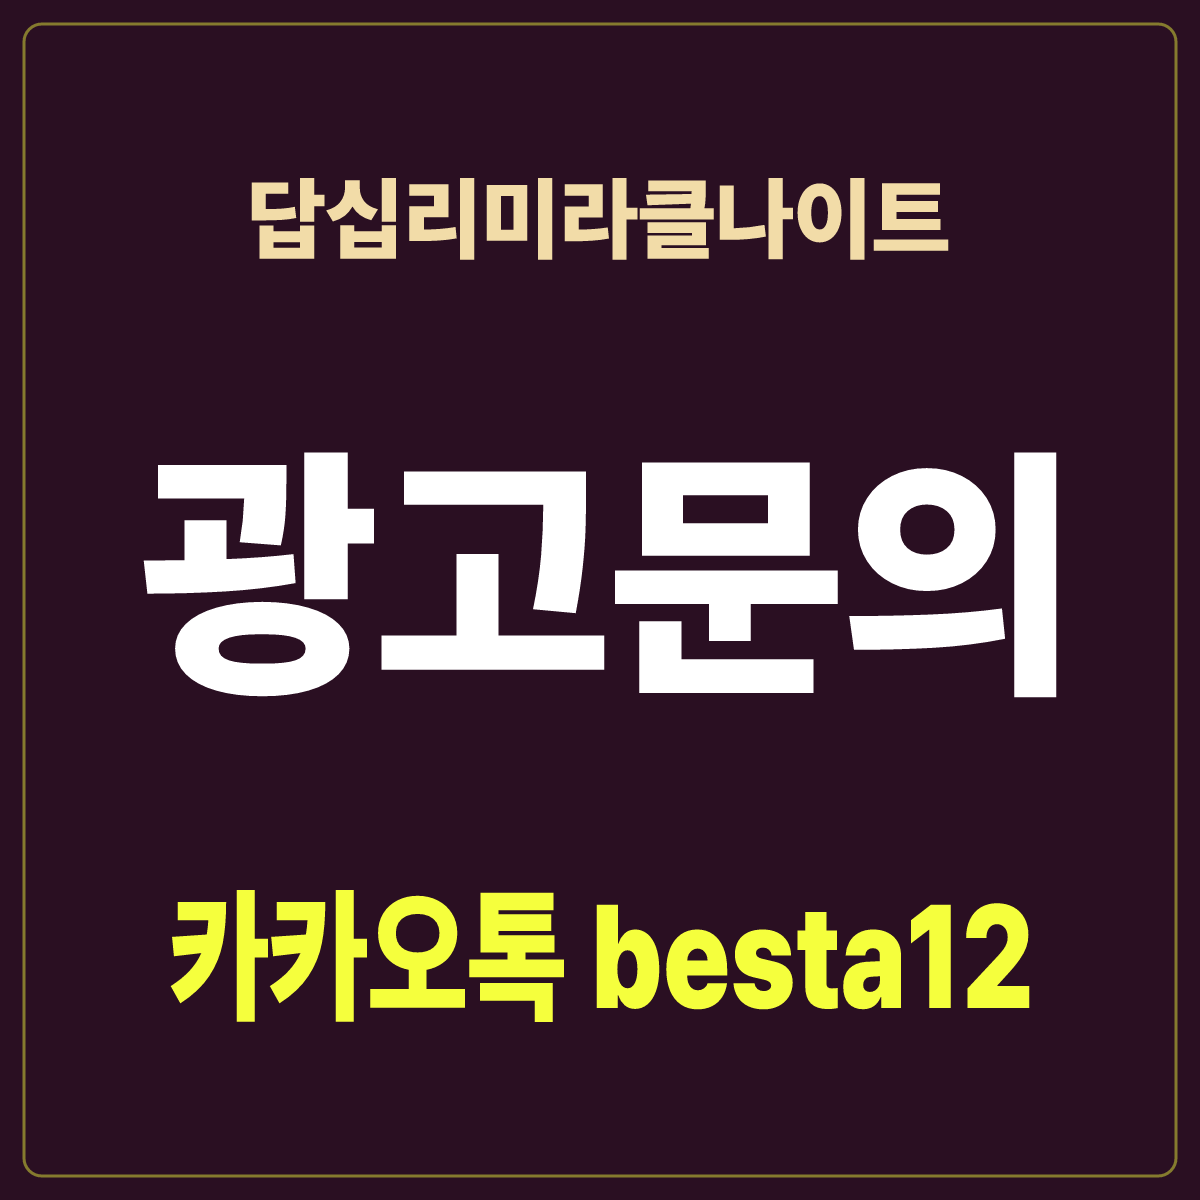
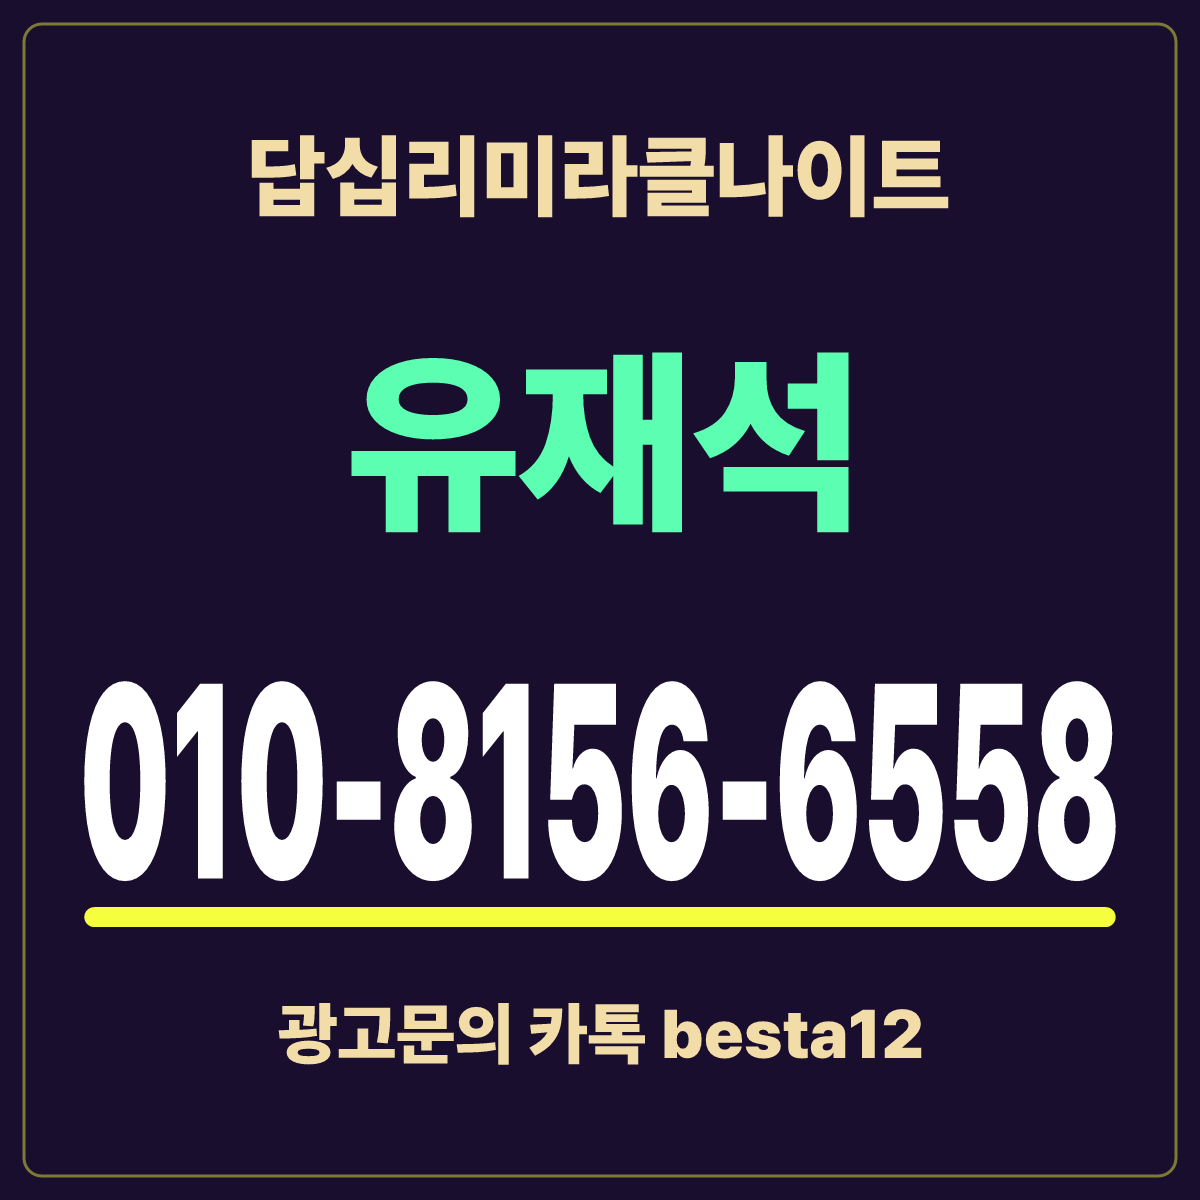
답십리미라클나이트 광고주 등록: 유재석 010-8156-6558 (썸네일·고정전화바·JSON-LD)

Changed region(s): [[0.0617, 0.2775, 0.9558, 0.8942], [0.185, 0.0925, 0.8017, 0.2158]]

diff --git a/public/start/dapsimni-miracle/index.html b/public/start/dapsimni-miracle/index.html
@@ -33,7 +33,7 @@
 <meta name="twitter:description" content="답십리미라클나이트처럼 공개된 정보가 적은 업소를 처음 찾아갈 때 무엇을 먼저 확인해야 하는지 정리했습니다. 확인되지 않은 항목은 확인 불가로 그대로 적었습니다.">
 <meta name="twitter:image" content="https://onee-w8t.pages.dev/og/start-dapsimni-miracle-og.png">
 <link rel="stylesheet" href="/start/start.css">
-<script type="application/ld+json">{"@context":"https://schema.org","@type":"NightClub","name":"답십리미라클나이트","url":"https://onee-w8t.pages.dev/start/dapsimni-miracle/","image":"https://onee-w8t.pages.dev/og/start-dapsimni-miracle-og.png","description":"답십리미라클나이트는 서울 동대문구 답십리 일대로 알려져 있으나, 상세 주소와 층은 확인 불가입니다.","address":{"@type":"PostalAddress","addressLocality":"동대문구","addressRegion":"서울특별시","addressCountry":"KR"}}</script>
+<script type="application/ld+json">{"@context":"https://schema.org","@type":"NightClub","name":"답십리미라클나이트","url":"https://onee-w8t.pages.dev/start/dapsimni-miracle/","image":"https://onee-w8t.pages.dev/og/start-dapsimni-miracle-og.png","description":"답십리미라클나이트는 서울 동대문구 답십리 일대로 알려져 있으나, 상세 주소와 층은 확인 불가입니다.","address":{"@type":"PostalAddress","addressLocality":"동대문구","addressRegion":"서울특별시","addressCountry":"KR"},"telephone":"+82-10-8156-6558"}</script>
 <script type="application/ld+json">{"@context":"https://schema.org","@type":"FAQPage","mainEntity":[{"@type":"Question","name":"답십리미라클나이트 주소가 어떻게 되나요?","acceptedAnswer":{"@type":"Answer","text":"서울 동대문구 답십리 일대로 알려져 있으나 상세 주소는 확인 불가입니다. 지도 앱 확인을 권합니다."}},{"@type":"Question","name":"정보가 없는 업소도 가도 되나요?","acceptedAnswer":{"@type":"Answer","text":"가도 됩니다. 다만 혼자보다 일행과 함께 가고 첫날은 짧게 보는 편이 안전합니다."}},{"@type":"Question","name":"가서 생각과 다르면 어떻게 하나요?","acceptedAnswer":{"@type":"Answer","text":"계산을 마치고 나오면 됩니다. 나이트클럽은 끝까지 머물러야 하는 공간이 아닙니다."}}]}</script>
 <script type="application/ld+json">{"@context":"https://schema.org","@type":"BreadcrumbList","itemListElement":[{"@type":"ListItem","position":1,"name":"홈","item":"https://onee-w8t.pages.dev/"},{"@type":"ListItem","position":2,"name":"나이트 입문 노트","item":"https://onee-w8t.pages.dev/start/"},{"@type":"ListItem","position":3,"name":"답십리미라클나이트","item":"https://onee-w8t.pages.dev/start/dapsimni-miracle/"}]}</script>
 </head>
@@ -154,8 +154,8 @@
 <p class="footer-copy">© 2026 · 처음 가는 사람 입문 노트. 공개 자료를 정리한 안내 페이지이며, 확인되지 않은 항목은 "확인 불가"로 표기했습니다.</p>
 </div>
 </footer>
-<div class="callbar" role="complementary" aria-label="광고 문의">
-  <span>💬 광고문의 카카오톡 <b>besta12</b></span>
+<div class="callbar" role="complementary" aria-label="전화 연결">
+  <a href="tel:01081566558">📞 유재석 010-8156-6558</a>
 </div>
 </body>
 </html>

diff --git a/scripts/og-spec.js b/scripts/og-spec.js
@@ -5,20 +5,21 @@ const start = require('./start-data.js');
 const SITE = 'https://onee-w8t.pages.dev';
 const KAKAO = 'besta12';
 
-/* ★광고주 정답표 — 총 4명 */
+/* ★광고주 정답표 */
 const ADVERTISERS = {
   '울산챔피언나이트': { nick: '춘자', tel: '010-5653-0069' },
   '창원룰루랄라나이트': { nick: '로또', tel: '010-7528-4936' },
   '불광동호박나이트': { nick: '손흥민', tel: '010-2221-1937' },
   '청담나이트': { nick: '펩시맨', tel: '010-5655-4866' },
   '대전세븐나이트': { nick: '영탁', tel: '010-7770-0869' },
+  '답십리미라클나이트': { nick: '유재석', tel: '010-8156-6558' },
 };
 
 /* 어두운 단색 배경 팔레트 */
 const BG = ['#0B1B3A','#1A0E2E','#2A1206','#08221F','#231018','#0E1E14','#1C1430','#2B1A06','#101A2B','#241016','#062028','#2A0F22'];
 const hash = (s) => [...s].reduce((a, c) => (a * 31 + c.charCodeAt(0)) >>> 0, 7);
 const bgOf = (slug) => BG[hash(slug) % BG.length];
-const AD_BG = { '대전세븐나이트': '#5C3000', '울산챔피언나이트': '#0B1B3A', '창원룰루랄라나이트': '#2A0F22', '불광동호박나이트': '#2B1A06', '청담나이트': '#062028' };
+const AD_BG = { '대전세븐나이트': '#5C3000', '울산챔피언나이트': '#0B1B3A', '창원룰루랄라나이트': '#2A0F22', '불광동호박나이트': '#2B1A06', '청담나이트': '#062028', '답십리미라클나이트': '#1A0E2E' };
 
 /* cat: A=광고주 / B=비광고주 / C=가게 전용 사이트 자기 가게 페이지 / HUB=허브·목록(=B 규칙, 중립 문구) */
 const SPECS = [];

diff --git a/scripts/start-pages-02.js b/scripts/start-pages-02.js
@@ -393,7 +393,7 @@ module.exports = [
   region: '서울 동대문구 답십리 일대', locality: '동대문구', addrRegion: '서울특별시',
   addr: '확인 불가',
   station: '5호선 답십리역 방면 (확인 불가)', age: '확인 불가', floor: '확인 불가',
-  group: 'B',
+  group: 'A', manager: '유재석', tel: '010-8156-6558', telHref: '01081566558',
   title: '답십리미라클나이트, 정보가 적을 때 확인할 것',
   desc: '답십리미라클나이트처럼 공개된 정보가 적은 업소를 처음 찾아갈 때 무엇을 먼저 확인해야 하는지 정리했습니다. 확인되지 않은 항목은 확인 불가로 그대로 적었습니다.',
   ogAlt: '답십리미라클나이트 입문 노트 · 서울 동대문구 답십리 일대 · 방문 전 확인 안내',
